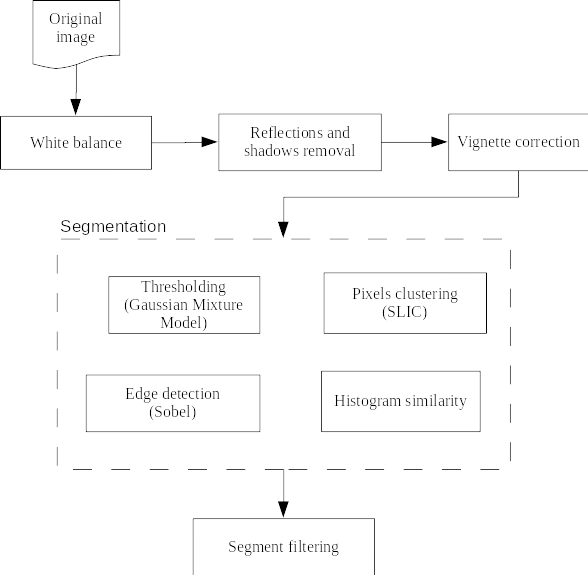
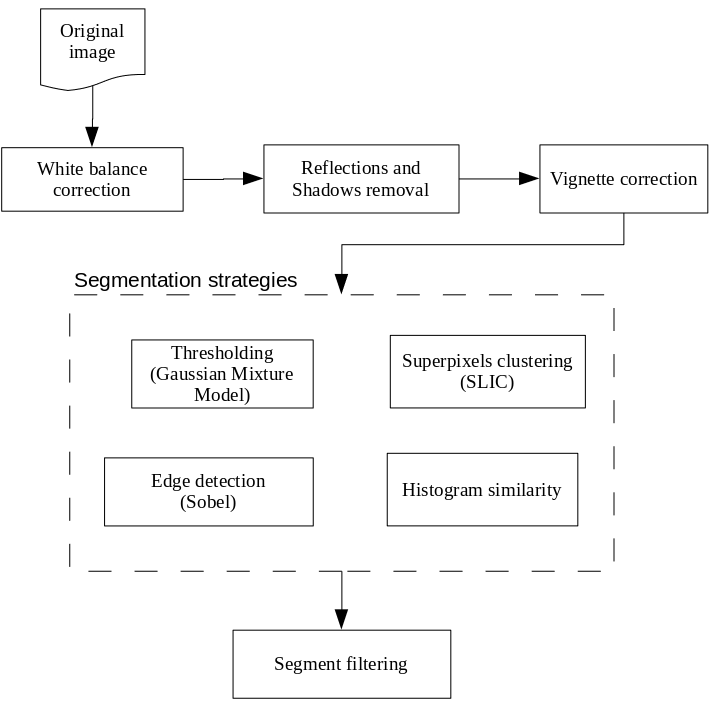
docs: Improve fluxogram

diff --git a/docs/report-en.md b/docs/report-en.md
@@ -1,0 +1,315 @@
+# Automatic detection of Eubalaena whales in aerial images
+
+Completion project of the Digital Image Processing discipline of the Postgraduate Program in Environmental Sciences, 2nd semester of 2015, by Bruno Arine.
+
+## Abstract
+
+The North Atlantic Right Whale (Eubalenae glacialis) is currently represented by no more than 500 individuals in natural habitat. Thus, obtaining information about the health and conditions of each individual is urgent so that preservation entities, together with the scientific community, are able to protect them from extinction. To track and monitor the population, right whales are photographed by aerial survey and manually compared to an online photo-identification catalogue. The identification process takes time, making individual tracking difficult for biological sampling, acoustic recording, and various relevant medical assessments. Currently, there are a limited number of professionals able to visually identify each individual present in the photos when they emerge. The present work proposes an automatic method of locating right whales in aerial images, so that later the head region can be identified, where the most relevant features for recognition between individuals are found. Thus, the composition of training material for a potential neural network for recognizing individuals, with the region of greatest interest in each photo, becomes less laborious and with minimized interference from a human operator.
+
+## Methodology
+
+The pre and post processing steps for this work are shown in the flowchart below:
+
+<p align="center">
+<img src="./docs/img/fluxogram.png">
+</p>
+
+Four different ways of locating whales in the images were evaluated: contour search, thresholding, superpixel clustering, and histogram similarity search. The execution time of each algorithm was measured and taken into account in the final discussions.
+
+### 1) Channel decomposition
+
+The color space defined by the R, G and B channels is sensitive to light variation, as well as the presence of shadows and reflections in the photographed environment. The photos available for this work, however, were taken under different conditions of weather, time of day, lighting and angle of incidence of the sun. In addition to these natural factors, it should be noted that the camera is probably not the same, as some images have different resolutions from each other.
+
+To ensure that there is a standard in the overall brightness and hue of the images, it was preferred to prioritize color spaces that are invariant to most of these factors. The table below lists the invariance quality of some of these color spaces.
+
+<p align="center">
+<img src="./docs/img/variance.png">
+</p>
+
+_Invariance properties of individual channels in ascending order of invariance. The sign of "-" means fully variant, "+/-" partially invariant and "+" fully invariant to the corresponding property. _
+
+During the tests, all models presented a satisfactory performance with the H and S channels of the HSV space, the a channel of the Lab space, and the Rn channel of the Normalized RGB space.
+
+These results were probably because sea water is intensely bluish in relation to the whale, so these elements will appear differently in the H channel due to the difference in hue. In photos taken on sunny days, the water exhibits a considerably more intense coloration, producing more saturated pixels and consequently higher values than the whale pixels in the S channel. The R channel is not always the best choice for targeting of the image, however, in certain cases the water region is almost completely black in this channel, as there are no red tones in the water. This same effect occurs in channel a of the Lab space, since this space separates red from blue in channels a and b respectively, with the advantage that variations in lighting remain isolated in channel L.
+
+### 2) Removal of reflections and shadows in the waves
+
+Depending on weather conditions and time of day, the sun's incident rays on the ripples of the water produce shadows and reflections that make the segmentation process difficult, especially in the stage where you try to find the edges of the whale in the image (see image below).
+
+<p align="center">
+<img src="./docs/img/channel_s.png">
+</p>
+
+It is clear that these unwanted artifacts in the image differ from the whale's body in size and frequency; while there is only one whale per photo occupying a considerable region of the image, the shadows and streaks are numerous and thin. One way to eliminate them would be through band filtering in the image frequency domain, either by Fourier transform or wavelet. An example of what such a process would look like is shown in the figure below.
+
+<p align="center">
+<img src="./docs/img/simulation.png">
+</p>
+
+_2D Fourier transform simulation on a) an image with geometric shapes and interference lines, b) interference lines only, and c) geometric shapes only._
+
+When applying the fast Fourier transform to a real photo and obtaining the power spectrum (squaring the real and imaginary part of the spectrum), the result is not intuitive enough for us to know which region of the spectrum to neutralize so that interferences could be eliminated.
+
+<p align="center">
+<img src="./docs/img/channel_s_fourier.png">
+
+<em>The Fourier transform of the image's S-channel does not immediately show clues as to how to eliminate ripples in the water.</em>
+
+</p>
+
+Thus, for the sake of simplicity, I decided to apply a medium filter to the selected channels before the execution of the segmentation processes, making sure that the mask used was larger than the size of the shadows and streaks that we would like to eliminate.
+
+### 3) Vignette correction
+
+Given the angle of incidence and nature of the photographic equipment used to acquire the images, there is a sharp shading close to the edges of the image in some of the photos. This shading is known as "vignette," easily seen especially in channel V (intensity) as a dark gradient. This phenomenon makes searching for a global threshold of image thresholding difficult since the histogram of intensity values starts to bear an extra region formed by the shading pixels, as shown in the figure below.
+
+<p align="center">
+<img src="./docs/img/thresholding.png">
+
+<em>Example of thresholding by Otsu method in an image with vignette.</em>
+
+</p>
+
+Typically, vignette correction is done by subtracting the pixel values from the original image by the pixel values from a white background image obtained with the same photographic equipment and under the same lighting conditions. If reference images are not available, the process of correcting the vignette can become a tad more complex. One method, for example, involves using a mixture of Gaussian models to determine the nature of each pixel and obtain the separation between the vignette and the image itself (CHEN et al., 2013).
+
+However, for this work, I chose a significantly more straightforward solution. Using channel V as a reference, the image was blurred through 2D convolution with a Gaussian mask. Immediately, it is noticed that the region where there is shading stands out from the rest of the image, which has a "lighter" lighting.
+
+I noticed experimentally that this Gaussian filter produced a more subtle gradient due to the nature of the mask, in contrast to the square mask of the medium filter, which creates distinct bands in the image.
+
+Image correction takes place entirely on channel V, using the formula O = I - IxG + 128., where I is channel V, and G is the Gaussian convolution mask. An example of a result can be seen in the image below.
+
+<p align="center">
+<img src="./docs/img/vignette_threshold.png">
+
+<em>a) image severely affected by the vignette effect, b) original image after applying the Gaussian filter, c) subtraction.</em>
+
+</p>
+
+It is noticed that the correction is not precise, but it considerably reduces the effect caused by the vignette during the thresholding process. Consequently, the image's contrast is visibly flattened but could be quickly normalized later.
+
+### 4) Choosing the least troubled channel
+
+As the threshold detection and contour detection algorithm uses only one channel as the input, I decided to create a method to choose the least troubled channel for the task automatically.
+
+The definition of an image's disturbance is arbitrary and subject to different interpretations. What was desired, evaluating the different image channels, was to find the one in which the separation between foreground (whale) and background (water) elements was as less complex as possible.
+
+There is no consensus on which would be the most objective measure to translate the degree of disturbance of an image. A first attempt to do so was based on second-order statistics calculated from the co-occurrence matrix: photographed objects tend to have a pixel-by-pixel correlation that, by definition, is not present in white noise. However, white noise does not necessarily disrupt the image segmentation process; above all, it is trivially removed with the application of a medium filter, for example. Thus, the correlation as a measure of disturbance is not appropriate in this case.
+
+In the context of this work, I noticed that the whales in some images were sometimes in the middle of a large vortex of foam due to movement, sometimes partially submerged; in both cases, even without the presence of background noise in the image, the algorithm showed an unsatisfactory performance in the segmentation step.
+
+<p align="center">
+<img src="./docs/img/troubled_channel.png">
+</p>
+
+_Water vapor expelled by the whale's spiracle confuses the thresholding algorithm._
+
+Given this fact, I decided to simulate a raw edge detection in each candidate channel (as mentioned above, channels with larger invariance to the difference in illumination had higher priority) by calculating the image gradient. Once the edges are detected, the algorithm chooses the channel where the sum of the pixels of the image is smaller. In practical terms, this means selecting the channel that has the least interference.
+
+### 5) Segmentation methods
+
+#### 5.1) Edge detection method
+
+After checking which channel is less troubled (among H, S and normalized R), the image gradient is calculated, then subjected to binarization using the Otsu method, as shown in the figure below.
+
+<p align="center">
+<img src="./docs/img/edge_detection.png">
+</p>
+
+_The most appropriate channel was selected, in this example being the H channel. Then it is filtered, its gradient is calculated, and then thresholded._
+
+If the reference image chosen was the normalized R channel, it will be submitted to a different edge detection process. This is because the r channel is naturally more complex than the H or S channel when these are suitable for whale segmentation, that is, when they show precisely the animal's silhouette and nothing else. The same does not occur with the r channel, however more stable it is compared to either H or S. Therefore, the r channel is treated again with a median filter for secondary removal of smaller elements and then subjected to Canny edge detection filter. The Canny filter is currently seen as one of the most efficient algorithms for the task.
+
+The resulting image will contain several probably non-continuous borders throughout image. They will be formed around various elements of the image, especially the whale itself and small artifacts produced by shadows, edges, foams, dirt, and other interferences. The correction of flaws in the lines that make up the edges of the image elements are corrected through the morphological method of closing the threshold image.
+
+<p align="center">
+<img src="./docs/img/edge_detection2.png">
+</p>
+
+_The dilation followed by erosion of the elements of the image causes gaps present between one point and another to be connected, allowing the filling of the formed figure._
+
+After correcting the flaws in the contours and making them continuous lines, filling the shapes becomes trivial and, regardless of the method used, the final result will be the same. In the case of this work, the filling algorithm consists of invading the complementary shape of the image through the dilation process. Holes are not connected to edges and therefore are not invaded. The result is the complementary subset of the invaded region.
+
+#### 5.2) Thresholding
+
+Unlike the previous method, in this case the image is segmented directly from the selected channel, without going through the edge detection process. Based on the hypothesis that there are background and front elements separable in the image only by the value of the pixels, the method consists in finding the optimal threshold for the maximum separation to occur. Tests were carried out with the a channel of the Lab space and the H channel of the HSV space, both with excellent invariant properties. The results showed that among them, channel a is the most suitable for separating the whale from the bottom element.
+
+Thresholding benefits if we transform pixel values from 8-bit integers to 32-bit decimals, and then apply a fading filter such as the mean or Gaussian filter. This has the role of interpolating the discrete values of pixels, improving the performance of the thresholding method algorithm.
+
+<p align="center">
+<img src="./docs/img/histogram.png">
+</p>
+
+_On the right, histogram of the original image. On the left, the histogram of the image after a Gaussian filter with a 3-pixel size kernel. Note how the shapes of Gaussian peaks are better distinguished after fading._
+
+The Otsu method for calculating the threshold, as mentioned, assumes that the image contains two classes of pixels, whose histogram takes the form of a bimodal distribution. The algorithm performs an exhaustive search so that the intraclass variance is minimized, that is, the weighted sum of the variances of the two classes (OTSU, 1979).
+
+However, Otsu's method is incompatible with certain images whose histograms are multimodal distributions. That happens because of the presence of four distinct elements in the image: the water, the whale, the shadows, and the reflections that could not be removed in the pre-processing, either because the pixel values are very close to those of the whale, either because the size of the impurities in the photo is larger than the mask used to filter them.
+
+This problem can be overcome by generalizing the Otsu method to more than one threshold, known as the Multilevel Otsu Method. Liu and Yu (2009) showed that the multilevel Otsu method is fully compatible with clustering methods, some of which are more efficient from a computational point of view. Therefore, instead of the Otsu method, the segmentation of the channel was done using a Gaussian mixture model. This is a probabilistic model, which assumes that the data distribution is formed by mixing a finite number of Gaussian distributions of unknown parameters. Since the histogram of the pixel values of each main element of the image should follow approximately a normal distribution, the Gaussian mixture model seemed to be more appropriate than other clustering methods, such as the k-means method, for example, which assumes that the calculated sections have equivalent dimensions.
+
+<p align="center">
+<img src="./docs/img/gaussian_histo.png">
+</p>
+
+_Examples of how the histogram is decomposed in the two Gaussians (left) model, by the bimodal Otsu method, and four Gaussians (right), by the Gaussian mixture model. The threshold was estimated at 0.40 and 0.57, respectively._
+
+For the Gaussian mixture model, the Gaussian curves representing the two most intense pixel groups were taken as a reference. Due to whales excel in the channel to form lighter than all the other picture elements, the threshold is calculated as the highest point of intersection of these two groups (which may be approximated as the mean of the centroids of each of the groups). The difference in the two threshold modes can be seen in the figure below.
+
+<p align="center">
+<img src="./docs/img/bimodal_threshold.png">
+</p>
+
+_Original image, threshold by the bimodal model and the multimodal model, respectively._
+
+The multimodal model allows the calculation of a more precise threshold for separating the whale from the rest of the image. It is even noted that the threshold was such that the water vapor expelled by the whale was left out.
+
+#### 5.3) Superpixel grouping method
+
+The idea of this segmentation method was first proposed by Ren and Malik (2003) and popularized by Achanta et al. (2010) through the algorithm called SLIC ( Simple Linear Iterative Clustering ). This algorithm performs a super-segmentation of the image using the k-means model and using all the pixel values of all channels in the Lab color space as a reference.
+
+<p align="center">
+<img src="./docs/img/slic.png">
+</p>
+
+_Example of superpixels creation using the SLIC algorithm._
+
+The most similar pixels are grouped in a "superpixel" and may or may not be connected, according to the parameters imposed on the algorithm. Because it uses k-averages, this superpixel creation algorithm is the most computationally efficient (ACHANTA et al., 2012). However, even so, the execution time was too high to apply this segmentation method in 100 test images. Reducing the image to 20% of the original size has reduced the runtime without significantly impairing efficiency.
+
+After creating the superpixels, they are grouped into three larger groups using an agglomerative clustering algorithm. They perform a hierarchical clustering of the superpixels based on the Euclidean distance. This step is suggested by Pantofaru and Herbert (2005), whose work uses a superpixel algorithm called "mean-shift," predecessor of SLIC.
+
+<p align="center">
+<img src="./docs/img/slic_reduction.png">
+</p>
+
+_ number of superpixels reduced by agglomerative clustering (left) and selection of the cluster most compatible with the illumination of the original image (right)_
+
+After reducing the number of clusters, the most relevant cluster among the three estimated is selected. In the vast majority of the investigated photos, the whale's body has pixels of greater value in the R channel than in the other channels. Converting the RGB space to normalized RGB, to ensure that the selection method is standardized in different illuminations, the segment whose pixel ratio of the normalized R channel in relation to the rest of the image is the largest is selected (Figure 16 ).
+
+#### 5.4) Histogram similarity
+
+This method is simpler than the previous methods, but more robust in relation to features that vary from one image to another. This algorithm is based on two facts from the nature of the photos in question: a) the whale occupies a small area of the image and b) most of the image, which is occupied by water, is practically uniform.
+
+Based on these two principles, the algorithm divides the image into four windows and calculates the histogram of each one in the HSV space, since this is partially invariant to different lighting conditions, but returns differentiable histograms between regions. If one of them has a histogram statistically different from the histogram that generated these 4 windows (determined by the correlation coefficient between the values of each band), this window is marked in a mask and then it subdivides the window into 4 more windows and so on.
+
+<p align="center">
+<img src="./docs/img/exhaustive_search.png">
+</p>
+
+_Example of a recursive search for regions with different histograms compared to the entire image histogram._
+
+Thanks to the recursiveness of the algorithm, scanning becomes more efficient, as the computation of histograms focuses on regions (and sub-regions) that have only pixels of interest, rather than background pixels.
+
+### 6) Post-processing
+
+For all the segmentation methods used, the next step is to eliminate small segments through the morphological opening operation (in which erosion is carried out, followed by the dilation of the image).
+
+More than one segment can remain in the resulting image in this step. Assuming that the whale is the largest front element in all photos, filter it so that only the largest segment remains. The detection and calculation of each spot present in the image is done through growing regions. In this process, the binary image is scanned until a pixel of the desired value is found (in this case, 1). From this point on, the image is scanned bilaterally to estimate how far this segment and value 1 propagates. After scanning the entire continuous range of values one and locating the extent of the stain, it has the area counted and its pixels removed from the image. The algorithm then continues its search from the previous point.
+
+## Results and discussion
+
+There is no consensus in the computer vision community on the best way to evaluate segmentations (ÖZDEMIR et al., 2010). The list of available metrics is as extensive as research groups in the area and their pros and cons. Therefore, common sense should dictate the most relevant metric for the type of task the job wants to evaluate. It would not have practical significance for this work, for example, to use the "false-negative rate." How to estimate the number of false negatives if all the images in the test set are positive (that is, they have at least one whale)?
+
+The metric chosen to evaluate the performance of the algorithms in this work was the "overlap," as defined by the iou Visual Object Classification Challenge, which is a worldwide competition of computer vision algorithms considered a reference (UIJILINGS et al., 2013). The overlay formula is given by
+
+$$ O = \frac{\text{area of overlap}}{\text{area of union}} $$
+
+The overlap may vary r between 0 and 1, where a value greater than 0.5 is deemed "detected." The above formula ensures that the algorithms are rewarded the closer the whale's estimated rectangle approaches the true rectangle. In contrast, the score is impaired if the whale is still within the estimated rectangle, but the estimated rectangle is excessively larger than the actual rectangle. Likewise, estimated rectangles that are much smaller than the real one will also be penalized.
+
+Although the superposition metric proposed in iou VOC seems sensible in the scope of this work, the comparison with algorithms from other works is still ambiguous, even if they use the same metric. One must consider the quantity and nature of the images in the test set and how "permissible" was the person who labeled in each photo the actual position of the object to be detected. In the case of the whales in this work, the actual locations were marked, taking into account all the humanly visible parts of the cetaceans, even the submerged portion almost indistinct with the naked eye. Other authors, however, could prefer the delimitation of the whales in the photos only in the part out of the water and of easy observation. Still, others might like to delimit the whale region by leaving a certain amount of slack within the rectangle. Therefore, the statistics in Table 2 are intended for intra-study comparison only.
+
+<p align="center">
+<img src="./docs/img/score.png">
+</p>
+
+The performance of Histogram Similarity was remarkable, taking into account the simplicity of the concept. The performance of the segmentation by superpixels was not as good as expected since many other works use it successfully. It is believed to be a matter of adjustments to the algorithm.
+
+The threshold and contour detection methods also showed excellent results, given the variety of light conditions in each image. According to the figure below, the choice of color space proved to have a direct relationship with the final performance of the algorithm, according to the figure below.
+
+<p align="center">
+<img src="./docs/img/score2.png">
+</p>
+
+_Precision of each thresholding technique, made with the Otsu method and Gaussian mixing model in channels a, H, Rn and combinations of these._
+
+According to the results of different threshold settings, it is clear that the channel used as a reference is even more critical than the histogram threshold method (Otsu or GMM).
+
+The blue rectangles indicate the area where the whale is present. The red rectangles indicate the two worst classifications by the algorithms, and the green rectangles indicate the two best classifications. It is noted that clouds of steam were the element that most affected all performances, followed by luminous conditions where the whales do not stand out from the bottom.
+
+### Comparison with other works
+
+The most outstanding work concerning remote counting of right whales was done by Fretwell et al. (201 4 ), based on the "coastal" and "near-infrared" bands of the WorldView2 satellite, whose sensor has a maximum resolution of 0.5 m per pixel. The authors experimented with four different segmentation methods on their images obtained from the high-resolution satellite. The number of correct answers, the number of failures and the number of false positives, and the number of false negatives were estimated. The tests were carried out on several concatenated satellite images, in which the authors manually identified 91 right whales. It was not specified how the arrangements and to identify failures were recorded in the statistics. The labor statistics are summarized under the precision metric.
+
+As the present work does not have a relationship of true negatives, because the test photos always contain at least one individual, the statistics could not be summarized by the F1 metric, as is usual in works with classifiers.
+
+<p align="center">
+<img src="./docs/img/score_reference.png">
+</p>
+
+_Precision values obtained by the algorithms of this study and the study by Fretwell et al. (2014). The bold lines represent the best performances of both._
+
+The experiments by Fretwell et al. (2014) show that the best performance obtained in that study was through the thresholding of Worldview2 panchromatic images. However, the authors claim that this method with exceptional performance was performed "with the user's assistance" - that is, iteratively adjusting a threshold value that maximizes its accuracy, unlike this work, whose algorithms were executed in an unsupervised way.
+
+The authors also mention that the region chosen for monitoring provided images with calm, cloud-free water. These two characteristics facilitate the process of searching for maritime elements (ABILEAH, 2002). In previous works, the reflections and shadows produced by the incidence of sunlight on the waves make the segmentation of whales an impractical task.
+
+As the present work contained such elements in several images and, taking into account that the algorithms acted in an unsupervised way, the obtained performance can be considered reasonable.
+
+## Conclusions
+
+The field of computer vision can bring good results to the most diverse areas of knowledge. This work succinctly exemplifies this statement. The extensive work of locating and labeling whales in aerial images can be automated with an accuracy of up to 78%, using only basic statistical methods for segmentation and thorough work of pre-processing the images. We must also keep in mind that part of the unsatisfactory results is due to the considerable variance of properties of the photos used, which showed different forms and intensities of lighting, water texture caused by the winds, distances between the photographic sensor and the whales, outbreaks, photographic equipment, angles and positions of the whales, portions of the whales that remained submerged, etc.
+
+The precision obtained in this study can perhaps be improved through more sophisticated segmentation methods, combined with a rectifier capable of understanding the shape of the segment and estimating the probability of it being a whale or just impurity in the image. The method created by Uijilings et al. (2013) seems quite promising for the problem due to its high computational efficiency in segmentation, leaving room for robust classifiers such as SVM or convolution neural networks to correctly classify segments.
+
+## References
+
+ABILEAH, R. Marine mammal census using space satellite imagery. U. S. Navy Journal of Underwater Acoustics, v. 52, n. 3, jul. 2002.
+
+ACHANTA, R.; SHAJI, A.; SMITH, K.; LUCCHI, A.; FUA, P.; SÜSSTRUNK, S. Slic superpixels. [s.l: s.n.].
+
+ACHANTA, R.; SHAJI, A.; SMITH, K.; LUCCHI, A.; FUA, P.; SÜSSTRUNK, S. SLIC Superpixels Compared to State-of-the-Art Superpixel Methods. IEEE Transactions on Pattern Analysis and Machine Intelligence, v. 34, n. 11, p. 2274–2282, nov. 2012.
+
+BRILLANT, S. W.; VANDERLAAN, A. S.; RANGELEY, R. W.; TAGGART, C. T. Quantitative estimates of the movement and distribution of North Atlantic right whales along the northeast coast of North America. Endangered Species Research, v. 27, p. 141–154, 2015.
+
+CHEN, S. Y.; DAI, S. G.; MU, P. A. Correction of CCD Camera Lens Vignetting. Applied Mechanics and Materials, v. 373-375, p. 603–607, ago. 2013.
+
+EBERHARDT, L. L.; CHAPMAN, D. G.; GILBERT, J. R. A review of marine mammal census methods. Wildlife Monographs, v. 63, p. 3–46, 1979.
+
+FINN, C.; DUYCK, J.; HUTCHEON, A.; VERA, P.; SALAS, J.; RAVELA, S. Relevance feedback in biometric retrieval of animal photographs. In: Pattern Recognition. [s.l.] Springer, 2014. p. 281–290.
+
+FRETWELL, P. T.; STANILAND, I. J.; FORCADA, J. Whales from Space: Counting Southern Right Whales by Satellite. PLoS ONE, v. 9, n. 2, p. e88655, 12 fev. 2014.
+
+FUJIWARA, M.; CASWELL, H. Demography of the endangered North Atlantic right whale. Nature, v. 414, n. 6863, p. 537–541, 2001.
+
+GILLESPIE, D. Detection and classification of right whale calls using an “edge” detector operating on a smoothed spectrogram. Canadian Acoustics, v. 32, n. 2, p. 39–47, 1 jun. 2004.
+
+KAGGLE. Description - Right Whale Recognition | Kaggle. Disponível em: <https://www.kaggle.com/c/noaa-right-whale-recognition>. Acesso em: 17 nov. 2015.
+KRAUS, S. D.; BROWN, M. W.; CASWELL, H.; CLARK, C. W.; FUJIWARA, M.; HAMILTON, P. K.; KENNEY, R. D.; KNOWLTON, A. R.; LANDRY, S.; MAYO, C. A. North Atlantic right whales in crisis. SCIENCE-NEW YORK THEN WASHINGTON-, v. 5734, p. 561, 2005.
+
+KRAUS, S. D.; MOORE, K. E.; PRICE, C. A.; CRONE, M. J.; WATKINS, W. A.; WINN, H. E.; PRESCOTT, J. H. The use of photographs to identify individual North Atlantic right whales (Eubalaena glacialis). Rep. int. Whal. Commn, p. 145–51, 1986.
+
+LAIST, D. W.; KNOWLTON, A. R.; PENDLETON, D. Effectiveness of mandatory vessel speed limits for protecting North Atlantic right whales. Endangered Species Research, v. 23, p. 133–147, 2014.
+
+LIU, D.; YU, J. Otsu Method and K-means. In: Ninth International Conference on Hybrid Intelligent Systems, 2009. HIS ’09, Anais... In: NINTH INTERNATIONAL CONFERENCE ON HYBRID INTELLIGENT SYSTEMS, 2009. HIS ’09. ago. 2009.
+
+MACDONALD, D. (ed.). The encyclopedia of mammals. 2 edition ed. Oxford ; New York: OUP Oxford, 2009.
+
+MATE, B. R.; NIEUKIRK, S. L.; KRAUS, S. D. Satellite-Monitored Movements of the Northern Right Whale. The Journal of Wildlife Management, v. 61, n. 4, p. 1393–1405, 1997.
+
+NEW ENGLAND AQUARIUM. Right Whale Callosity Pattern Identification. Disponível em: <http://www.neaq.org/conservation_and_research/projects/endangered_species_habitats/right_whale_research/right_whale_projects/monitoring_individuals_and_family_trees/identifying_with_photographs/how_it_works/callosity_patterns.php>. Acesso em: 17 nov. 2015.
+
+NOAA. Automatic Whale Detector, Version 1.0 :: NOAA Fisheries. Disponível em: <http://www.fisheries.noaa.gov/stories/2015/02/gray_whale_survey_thermal_imaging.html>. Acesso em: 17 nov. 2015.
+
+OLIPHANT, T. E. Python for scientific computing. Computing in Science & Engineering, v. 9, n. 3, p. 10–20, 2007.
+
+OTSU, N. A Threshold Selection Method from Gray-Level Histograms. IEEE Transactions on Systems, Man, and Cybernetics, v. 9, n. 1, p. 62–66, 1979.
+
+ÖZDEMIR, B.; AKSOY, S.; ECKERT, S.; PESARESI, M.; EHRLICH, D. Performance measures for object detection evaluation. Pattern Recognition Letters, v. 31, n. 10, p. 1128–1137, 2010.
+
+REN, X.; MALIK, J. Learning a classification model for segmentation. In: Computer Vision, 2003. Proceedings. Ninth IEEE International Conference on, Anais...IEEE, 2003.
+
+UIJLINGS, J. R.; VAN DE SANDE, K. E.; GEVERS, T.; SMEULDERS, A. W. Selective search for object recognition. International journal of computer vision, v. 104, n. 2, p. 154–171, 2013.
+
+VAN DER WALT, S.; SCHÖNBERGER, J. L.; NUNEZ-IGLESIAS, J.; BOULOGNE, F.; WARNER, J. D.; YAGER, N.; GOUILLART, E.; YU, T. scikit-image: image processing in Python. PeerJ, v. 2, p. e453, 2014.
+
+YACK, T. M.; BARLOW, J.; ROCH, M. A.; KLINCK, H.; MARTIN, S.; MELLINGER, D. K.; GILLESPIE, D. Comparison of beaked whale detection algorithms. Applied Acoustics, Proceedings of the 4th International Workshop on Detection, Classification and Localization of Marine Mammals Using Passive Acoustics and 1st International Workshop on Density Estimation of Marine Mammals Using Passive Acoustics. v. 71, n. 11, p. 1043–1049, nov. 2010.
+
+ZERBINI, A. N.; BAUMGARTNER, M. F.; KENNEDY, A. S.; RONE, B. K.; WADE, P. R.; CLAPHAM, P. J. Space use patterns of the endangered North Pacific right whale Eubalaena japonica in the Bering Sea. 2015.
